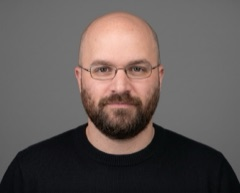
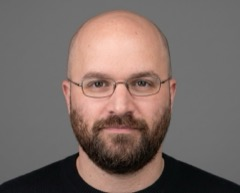
Apply Cat's 8 Oct content changes
Header logo, Home copy and reel order, sector text and companies, team
bios and photo framing, Approach copy, Augie's photo, portfolio additions
and removals, ICYMI lead and three new stories.

diff --git a/src/data/site.js b/src/data/site.js
@@ -1,5 +1,6 @@
 // TVC site content. Edit entries here; every page reads from this file.
 // Logos live in public/assets/logos/white/<logo>.png (white on transparent). ratio = width / height of that file.
+// sector: one of the "sectors" below, or "" to show the company under All only.
 // featured: position in the Home portfolio snapshot (1-8). short / homeTag: Home-only overrides.
 // team photo: file in public/assets/team/, or "" to show an initials monogram.
 export default {
@@ -16,6 +17,21 @@ export default {
     "Energy & AI Infrastructure",
     "Healthcare & Applied Bio",
     "Aerospace, Defense & Critical Materials"
+  ],
+  // Logos shown first in the Home logo reel, in this order. Every other company with a logo follows.
+  "marqueeFirst": [
+    "Orbem",
+    "Unnatural Products",
+    "Wonderbelly",
+    "Gravitics",
+    "coding.bio",
+    "Liferaft",
+    "Phasic Energy",
+    "Terrion",
+    "Axiom Space",
+    "Fluidstack",
+    "Life Biosciences",
+    "Universal Quantum"
   ],
   "companies": [
     {
@@ -446,17 +462,8 @@ export default {
       "ratio": 10.17,
       "desc": "Comprehensive pediatric care, just a text away.",
       "sector": "Healthcare & Applied Bio",
-      "tag": "",
-      "url": "https://www.summerhealth.com/"
-    },
-    {
-      "name": "Caraway",
-      "logo": "caraway",
-      "ratio": 4.8,
-      "desc": "Mental, physical, and reproductive health services and support for Gen Z.",
-      "sector": "Healthcare & Applied Bio",
       "tag": "Exit",
-      "url": "https://www.summerhealth.com/blog/caraway-health"
+      "url": "https://www.summerhealth.com/"
     },
     {
       "name": "SPARK Neuro",
@@ -511,6 +518,60 @@ export default {
       "sector": "Healthcare & Applied Bio",
       "tag": "",
       "url": "https://www.redqueen.bio/"
+    },
+    {
+      "name": "Eterna Regeneratives",
+      "logo": "eterna",
+      "ratio": 1.93,
+      "desc": "Regenerative biomaterials that use keratin to repair tooth enamel and bone.",
+      "sector": "Healthcare & Applied Bio",
+      "tag": "",
+      "url": "https://eternaregeneratives.co"
+    },
+    {
+      "name": "Speak_",
+      "logo": "speak",
+      "ratio": 1.0,
+      "desc": "A video interview platform that helps recruiters find real, qualified candidates fast.",
+      "sector": "",
+      "tag": "",
+      "url": "https://speak.careers"
+    },
+    {
+      "name": "Lopay",
+      "logo": "lopay",
+      "ratio": 2.68,
+      "desc": "A payment app and point-of-sale system that lets small businesses take card payments for less.",
+      "sector": "",
+      "tag": "",
+      "url": "https://lopay.com"
+    },
+    {
+      "name": "Qloo",
+      "logo": "qloo",
+      "ratio": 2.29,
+      "desc": "AI that predicts consumer taste across music, film, food, and travel.",
+      "sector": "",
+      "tag": "",
+      "url": "https://www.qloo.com"
+    },
+    {
+      "name": "SNAFU",
+      "logo": "snafu",
+      "ratio": 2.58,
+      "desc": "Data-driven growth capital and marketing for music artists, labels, and distributors.",
+      "sector": "",
+      "tag": "",
+      "url": "https://snafurecords.com"
+    },
+    {
+      "name": "Ellevest",
+      "logo": "ellevest",
+      "ratio": 4.53,
+      "desc": "Wealth management and financial planning built for women.",
+      "sector": "",
+      "tag": "",
+      "url": "https://www.ellevest.com"
     }
   ],
   "team": [
@@ -540,8 +601,8 @@ export default {
       "photo": "cat-2.jpg",
       "bio": [
         "Partner, Primary Venture Partners",
-        "Member, All Raise",
-        "Early-Stage Software Operator"
+        "Early Stage Software Operator",
+        "Member, All Raise"
       ]
     },
     {
@@ -591,9 +652,9 @@ export default {
       "role": "Chairman",
       "photo": "lld.jpeg",
       "bio": [
+        "Chief Growth Officer, Sela",
         "Managing Director, Sir Elton John and David Furnish's Global Private Office",
-        "COO, Rocket Entertainment Group",
-        "Advisor, MetroBank"
+        "COO, Rocket Entertainment Group"
       ]
     },
     {
@@ -661,7 +722,7 @@ export default {
     },
     {
       "label": "Healthcare under pressure",
-      "body": "Healthcare can no longer run on more people and more patents. $200–300B in drug revenue expires by 2030, and the country will be short 187,000 physicians to replace it. The industry has to get more efficient, not just bigger."
+      "body": "Healthcare can no longer run on more people and more patents. $200-300B in drug revenue expires by 2030, and the country will be short 187,000 physicians to replace it."
     },
     {
       "label": "Capital gap",
@@ -693,7 +754,7 @@ export default {
       "num": "01",
       "icon": "factory",
       "title": "Industrial & Advanced Manufacturing",
-      "body": "New factories are being announced faster than anyone can staff them. The 2.1M-worker gap closes with robots on the floor, not new hires.",
+      "body": "AI-powered machines are stepping in to fill a 2.1 million worker shortage, helping bring manufacturing home.",
       "companies": [
         "Orbem",
         "Mach",
@@ -718,9 +779,10 @@ export default {
       "title": "Healthcare & Applied Bio",
       "body": "Every part of the system is short-staffed at once — physicians, nurses, and the pipelines meant to replace expiring drugs. Software and AI are the only lever that scales faster than hiring ever could.",
       "companies": [
-        "Life Biosciences",
         "Unnatural Products",
         "Red Queen Bio",
+        "Life Biosciences",
+        "coding.bio",
         "HelixNano"
       ]
     },
@@ -728,7 +790,7 @@ export default {
       "num": "04",
       "icon": "shield",
       "title": "Aerospace, Defense & Critical Materials",
-      "body": "Decades of outsourcing left the West without the materials, launch capacity, and supply chains it now needs on its own soil. Rebuilding them is the next decade's industrial project.",
+      "body": "Re-establishing the materials, supply chains, and launch capacity lost to decades of outsourcing will be the defining industrial project of the next ten years.",
       "companies": [
         "Axiom Space",
         "Terrion",
@@ -747,7 +809,7 @@ export default {
     {
       "num": "02",
       "title": "We diagnose before we prescribe.",
-      "short": "Platform programs solve for the average company, and no company is average. We work out the two or three things that decide your next eighteen months, and put named people against each.",
+      "short": "Platform programs solve for the average company, and no company is average. We work out the two or three things that decide your next eighteen months, and deploy a dedicated deal team against it.",
       "body": "Platform programs solve for the average company, and no company is average. We work out which two or three things will actually determine your next eighteen months, then put named people against each one — and stay out of the way everywhere else.",
       "proof": "A support plan per company, revisited regularly"
     },
@@ -776,7 +838,7 @@ export default {
     {
       "num": "02",
       "title": "Customers",
-      "body": "Access to the incumbents that decide whether a market opens."
+      "body": "Go-to market guidance and access to key customers."
     },
     {
       "num": "03",
@@ -824,7 +886,7 @@ export default {
     {
       "when": "Week 1",
       "title": "Deep Dive",
-      "body": "Not a pass through the data room. We work to understand the business properly — where the real risk sits, and which parts of it we are willing to underwrite — with the specialists from our network in the room."
+      "body": "Not a pass through the data room. We work to understand the business properly — where the real risk sits, and which parts of it we are willing to underwrite — with the experts from our network in the room."
     },
     {
       "when": "Week 2",
@@ -862,21 +924,52 @@ export default {
       "url": "https://www.lifebiosciences.com/life-biosciences-announces-first-patient-dosed-in-phase-1-trial-of-er-100-for-optic-neuropathies/"
     }
   ],
+  // ICYMI page: the big story at the top. Kept on Power100 on purpose; newer stories go in "news" below.
   "lead": {
-    "source": "TS2",
-    "date": "Aug 2026",
-    "img": "/assets/news/xenergy-billboard.webp",
-    "title": "Amazon-backed X-Energy's $1 billion IPO puts nuclear power back in the AI spotlight",
-    "body": "X-Energy raised roughly $1 billion in its Nasdaq IPO under the ticker XE, pricing well above its initial range as investors back small modular reactor technology to meet surging AI and data-center energy demand.",
-    "url": "https://ts2.tech/en/amazon-backed-x-energys-1-billion-ipo-puts-nuclear-power-back-in-the-ai-spotlight/"
+    "source": "LinkedIn",
+    "date": "Mar 2026",
+    "img": "/assets/news/power100.jpeg",
+    "fit": "contain",
+    "bg": "#FFFFFF",
+    "title": "TVC named a 2026 Power100 Asset Manager",
+    "body": "Blueprint Capital Advisors recognized The Venture Collective among its 2026 Power100 Asset Managers honorees.",
+    "url": "https://www.linkedin.com/feed/update/urn:li:activity:7437842675678199808"
   },
   "news": [
+    {
+      "date": "Sep 2026",
+      "source": "Sky News",
+      "title": "Early Deliveroo backer invests in tooth enamel regeneration startup",
+      "body": "Hoxton Ventures co-leads a $4M seed round for Eterna Regeneratives, a King's College London spinout regrowing tooth enamel, with The Venture Collective also backing.",
+      "url": "https://news.sky.com/story/early-deliveroo-backer-invests-in-tooth-enamel-regeneration-startup-13588463"
+    },
+    {
+      "date": "Aug 2026",
+      "source": "TS2",
+      "title": "Amazon-backed X-Energy's $1 billion IPO puts nuclear power back in the AI spotlight",
+      "body": "X-Energy raised roughly $1 billion in its Nasdaq IPO under the ticker XE, pricing well above its initial range.",
+      "url": "https://ts2.tech/en/amazon-backed-x-energys-1-billion-ipo-puts-nuclear-power-back-in-the-ai-spotlight/"
+    },
+    {
+      "date": "2026",
+      "source": "WSJ Pro",
+      "title": "Emerging venture managers have a secret weapon: co-investing with LPs",
+      "body": "How newer venture firms are bringing their own investors into deals alongside them.",
+      "url": "https://www.wsj.com/pro/venture-capital/emerging-venture-managers-have-a-secret-weapon-co-investing-with-lps-009e4acd"
+    },
     {
       "date": "Jun 2026",
       "source": "Life Biosciences",
       "title": "First patient dosed in Phase 1 trial of ER-100",
       "body": "Dosing began in the Phase 1 study of ER-100 for optic neuropathies.",
       "url": "https://www.lifebiosciences.com/life-biosciences-announces-first-patient-dosed-in-phase-1-trial-of-er-100-for-optic-neuropathies/"
+    },
+    {
+      "date": "May 2026",
+      "source": "BeautyMatter",
+      "title": "Once bitten: Mimikai bug repellent takes on DEET",
+      "body": "Mimikai launches the first new EPA-approved insect repellent ingredient in 25 years, derived from wild tomatoes and as effective as DEET.",
+      "url": "https://beautymatter.com/articles/mimikai-bug-repellent-takes-on-deet"
     },
     {
       "date": "May 2026",
@@ -912,13 +1005,6 @@ export default {
       "title": "Scaling toward a million-qubit machine",
       "body": "A modular trapped-ion architecture targeting fault-tolerant scale.",
       "url": "https://universalquantum.com/"
-    },
-    {
-      "date": "Mar 2026",
-      "source": "LinkedIn",
-      "title": "TVC named a 2026 Power100 Asset Manager",
-      "body": "Blueprint Capital Advisors recognized The Venture Collective among its 2026 Power100 Asset Managers honorees.",
-      "url": "https://www.linkedin.com/feed/update/urn:li:activity:7437842675678199808"
     },
     {
       "date": "Feb 2026",

diff --git a/src/styles/global.css b/src/styles/global.css
@@ -77,7 +77,8 @@ p { text-wrap: pretty; }
 /* Header */
 .site-header { border-bottom: 1px solid var(--line); position: relative; }
 .site-header nav { display: flex; align-items: center; justify-content: space-between; gap: 12px 32px; padding-top: 18px; padding-bottom: 18px; }
-.wordmark { font-size: 18px; font-weight: 600; letter-spacing: -0.02em; color: var(--fg); }
+.wordmark { display: inline-flex; align-items: center; gap: 12px; font-size: 18px; font-weight: 600; letter-spacing: -0.02em; color: var(--fg); }
+.wordmark img { height: 24px; width: auto; }
 .nav-links { display: flex; flex-wrap: wrap; align-items: center; gap: 8px clamp(16px, 2vw, 28px); font-size: 14px; font-weight: 500; }
 .nav-links a[aria-current="page"] { color: var(--accent); }
 .nav-links .nav-cta { border-bottom: 1px solid var(--line-button); padding-bottom: 2px; }
@@ -245,7 +246,6 @@ p { text-wrap: pretty; }
 .filters button { height: 34px; padding: 0 14px; border: 1px solid var(--line-input); background: transparent; color: var(--fg-filter); font-family: var(--sans); font-size: 13px; font-weight: 500; cursor: pointer; white-space: nowrap; transition: background .2s, color .2s, border-color .2s; }
 .filters button[aria-pressed="true"] { border-color: var(--accent); background: var(--accent); color: var(--bg); }
 .filters .short { display: none; }
-.count { font-family: var(--mono); font-size: 11px; letter-spacing: 0.14em; text-transform: uppercase; color: var(--fg-muted); white-space: nowrap; }
 .portfolio-grid { padding-top: 40px; padding-bottom: var(--pad-y); }
 
 /* ICYMI */
@@ -254,6 +254,7 @@ p { text-wrap: pretty; }
 .lead-story { display: grid; grid-template-columns: minmax(0, 7fr) minmax(0, 5fr); border: 1px solid var(--line-2); }
 .lead-img { position: relative; min-height: 320px; background: var(--surface); filter: grayscale(1); overflow: hidden; }
 .lead-img img { position: absolute; inset: 0; width: 100%; height: 100%; object-fit: cover; }
+.lead-img.contain img { object-fit: contain; }
 .lead-text { display: flex; flex-direction: column; padding: clamp(28px, 3.5vw, 48px); color: var(--fg); transition: background .45s; }
 .lead-text:hover { background: var(--surface); color: var(--fg); }
 .meta { display: flex; gap: 16px; font-family: var(--mono); font-size: 11px; letter-spacing: 0.14em; text-transform: uppercase; }
@@ -320,7 +321,6 @@ p { text-wrap: pretty; }
   .filters button { scroll-snap-align: start; }
   .filters .long { display: none; }
   .filters .short { display: inline; }
-  .count { display: none; }
 }
 @media (pointer: coarse) {
   .filters button { height: 44px; }
